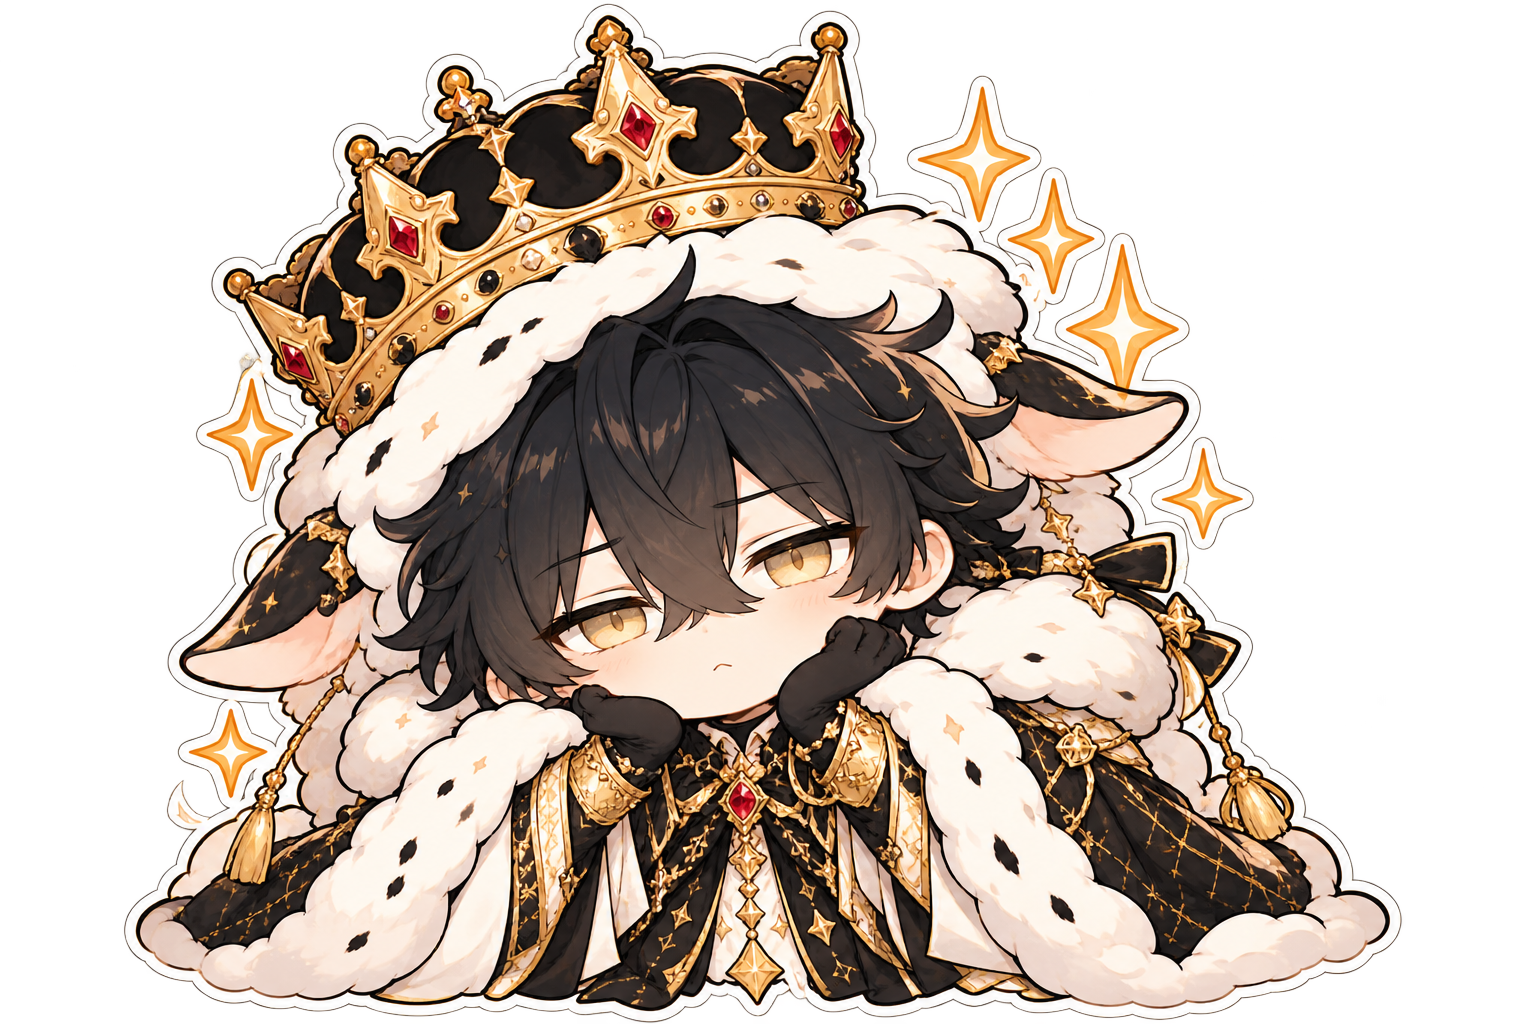
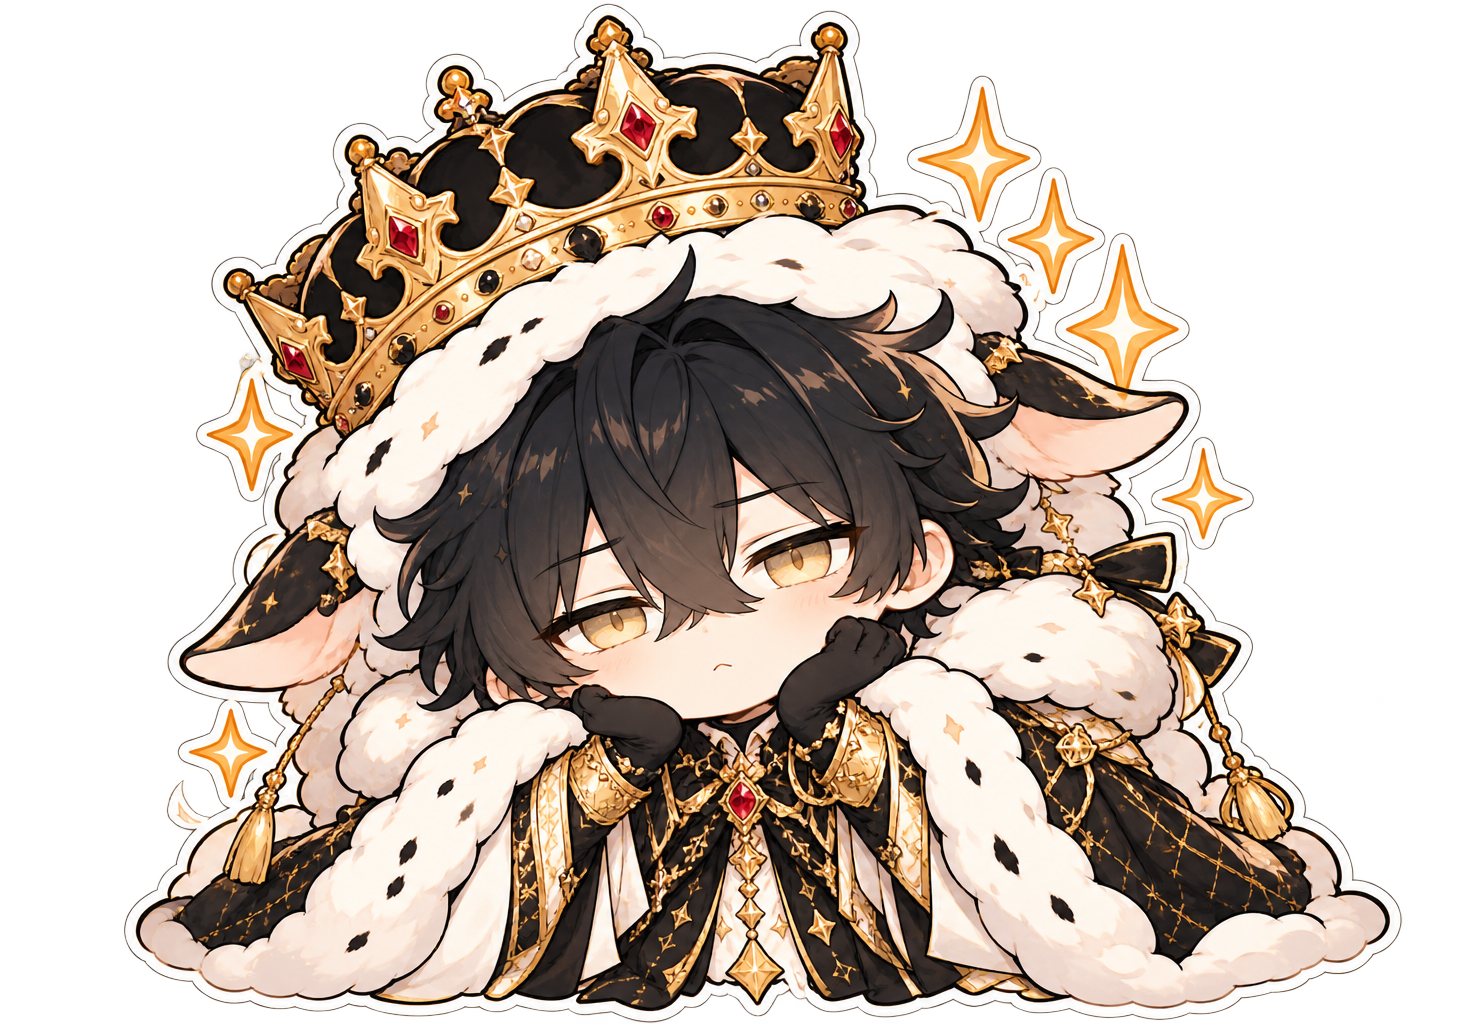
CG

diff --git a/src/data/chapterNineContent.ts b/src/data/chapterNineContent.ts
@@ -59,7 +59,7 @@ export const chapterNineLocations: ChapterNineLocation[] = [
       { speaker: "Bianca", text: "咦？那束光里有一个不属于彩窗的亮点。" },
       { speaker: "Bianca", text: "靠近以后就消散了。看来又找到一条。" },
     ],
-    message: { title: "异世界的信息", body: "Bianca酱～异世界旅游开心吗？享受旅程的同时请不要忘了 “常回现世看看～ 回现世看看～” (≧∇≦) 希望你成长的旅途都充满着奇妙的际遇，愿你遇见的人都是好人，经历的事都是好事～ 生日快乐呀!", signature: "Nancy", avatar: "touxiang2.png" },
+    message: { title: "带着奇怪歌声的祝福", body: "Bianca酱～异世界旅游开心吗？享受旅程的同时请不要忘了 “常回现世看看～ 回现世看看～” (≧∇≦) 希望你成长的旅途都充满着奇妙的际遇，愿你遇见的人都是好人，经历的事都是好事～ 生日快乐呀!", signature: "Nancy", avatar: "touxiang2.png" },
   },
   {
     id: "cathedral-square", name: "教堂广场", icon: "jiaotangguangchang.png", scene: "jiaotangguangchang1.png", position: { left: 37.45, top: 39.8 },
@@ -140,7 +140,7 @@ export const chapterNineLocations: ChapterNineLocation[] = [
       { speaker: "Bianca", text: "训练木桩旁边闪了一下……这也算是成长的纪念吗？" },
       { speaker: "Bianca", text: "好，又收集到一条。" },
     ],
-    message: { title: "CK3小皇帝的祝福", body: "Bianca生日快乐！嘿嘿有没有被这个“大制作”吓到！恭喜你（快要）成功完成这次莫名其妙的一世界冒险，也顺利解锁了人生的新一岁！祝你未来的每一段旅程都能遇见有趣的人、看到漂亮的风景、收货意想不到的惊喜！下一段冒险即将开始，祝你新的一岁自由自在，心想事成！", signature: "神秘的作者大大", avatar: "touxiang7.png" },
+    message: { title: "CK3小皇帝的信件", body: "Bianca生日快乐！嘿嘿有没有被这个“大制作”吓到！恭喜你（快要）成功完成这次莫名其妙的冒险，也顺利解锁了人生的新一岁！祝你未来的每一段旅程都能遇见有趣的人、看到漂亮的风景、收货意想不到的惊喜！下一段冒险即将开始，祝你新的一岁自由自在，心想事成！", signature: "神秘的作者大大", avatar: "touxiang7.png" },
   },
   {
     id: "lab", name: "魔法实验室", icon: "mofashiyanshi.png", scene: "mofashiyanshi1.png", position: { left: 61, top: 74.5 },

diff --git a/src/components/ChapterTenStory.tsx b/src/components/ChapterTenStory.tsx
@@ -99,6 +99,6 @@ export function ChapterTenStory({ onComplete, paused = false }: Props) {
 
     {phase === "openEyes" && <div className="open-eyes-card"><span>✦</span><h3>现在，可以睁开眼睛了。</h3><button className="sticker-button" onClick={() => { setLineIndex(0); setPhase("cakeReveal"); }}>睁开眼睛</button></div>}
 
-    {phase === "chapterComplete" && <div className="chapter-ten-completion"><div className="checkin-complete">✓ 第十章完成</div><p>神秘物品安全抵达现实世界。</p><small>故事还没有结束，朋友们准备的最后几页正在后面等你。</small><button className="dialogue-next return-airport" onClick={onComplete}>继续往下</button></div>}
+    {phase === "chapterComplete" && <div className="chapter-ten-completion"><div className="checkin-complete">✓ 第十章完成</div><p>神秘物品安全抵达现实世界。</p><small>而那个被你一路小心守护的东西，正在等待着某个特别的时刻。</small><button className="dialogue-next return-airport" onClick={onComplete}>继续往下</button></div>}
   </section>;
 }

diff --git a/src/styles/global.css b/src/styles/global.css
@@ -1020,7 +1020,7 @@ main {
 }
 .cg-polaroid {
   min-width: 0;
-  padding: clamp(7px, 2.2vw, 12px) clamp(7px, 2.2vw, 12px) clamp(13px, 3vw, 20px);
+  padding: clamp(7px, 2.2vw, 10px) clamp(7px, 2.2vw, 12px) clamp(13px, 3vw, 20px);
   overflow: hidden;
   border: 2px solid #493a39;
   border-radius: 3px;
@@ -1038,7 +1038,7 @@ main {
   display: grid;
   place-items: center;
   width: 100%;
-  aspect-ratio: 4 / 3;
+  aspect-ratio: 4 / 3.5;
   overflow: hidden;
   border: 1px solid #8e817d;
   background: #eaf4f5;
@@ -1047,8 +1047,8 @@ main {
 .cg-polaroid strong {
   display: grid;
   place-items: center;
-  min-height: 2.7em;
-  margin: 10px 2px 0;
+  min-height: 1.5em;
+  margin: 5px 2px 0;
   font-family: "Ma Shan Zheng", "Noto Sans SC", sans-serif;
   font-size: clamp(1rem, 4.2vw, 1.35rem);
   font-weight: 400;
